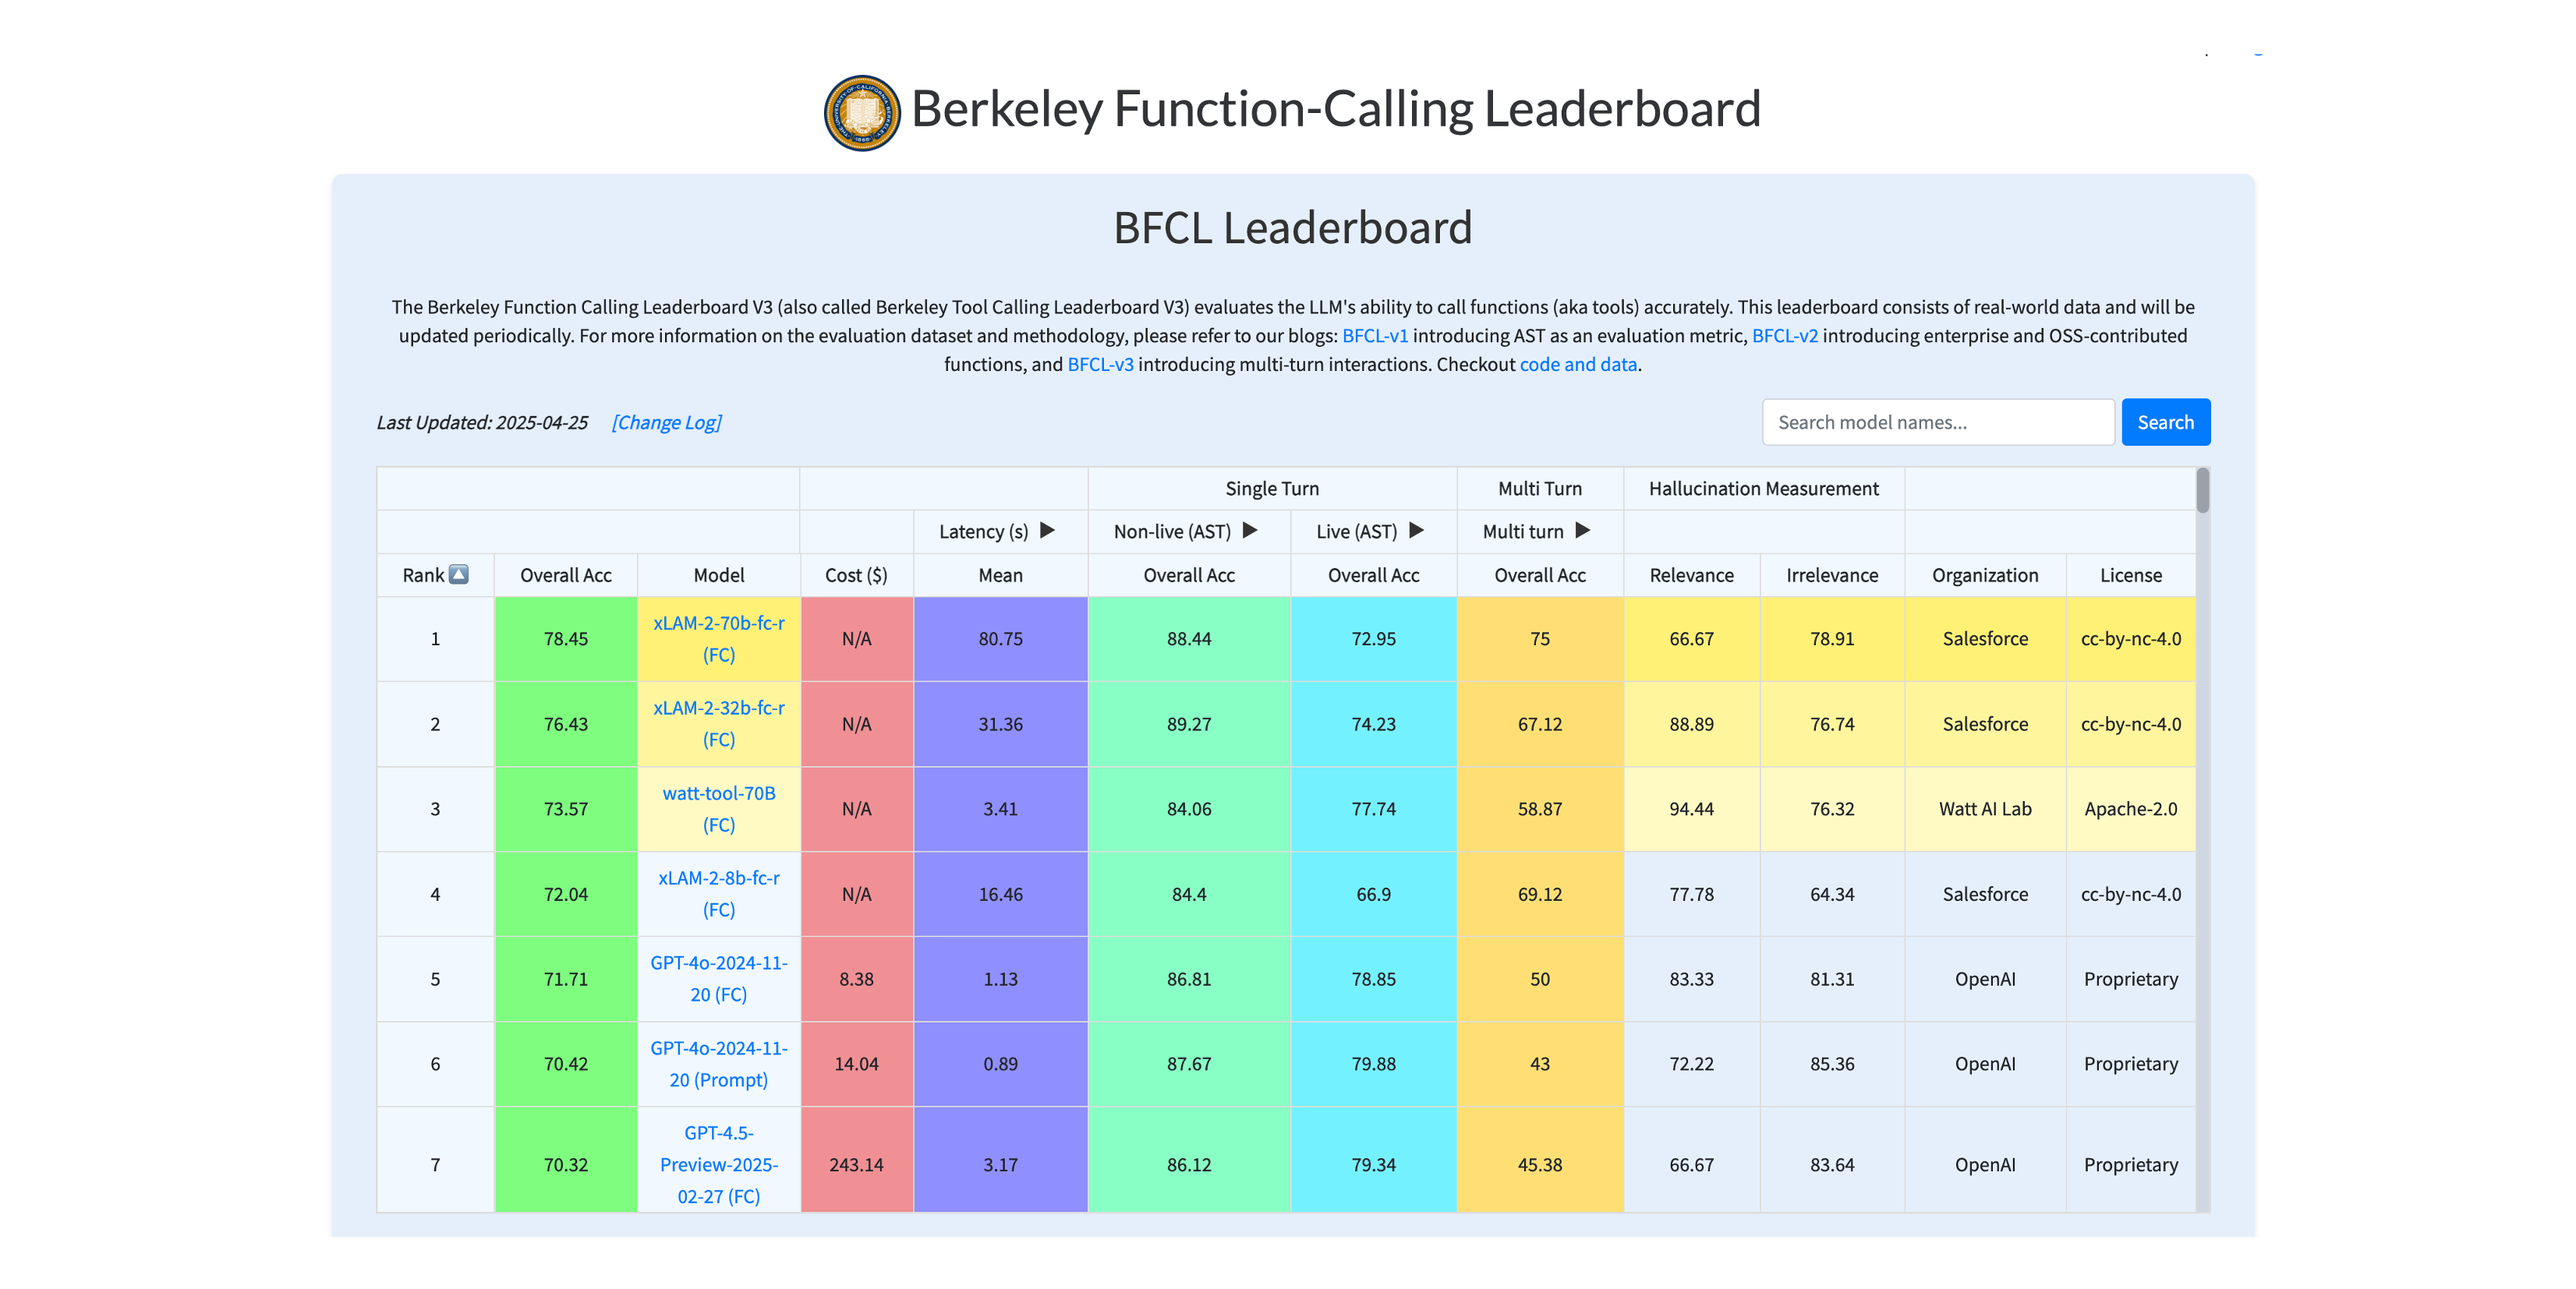
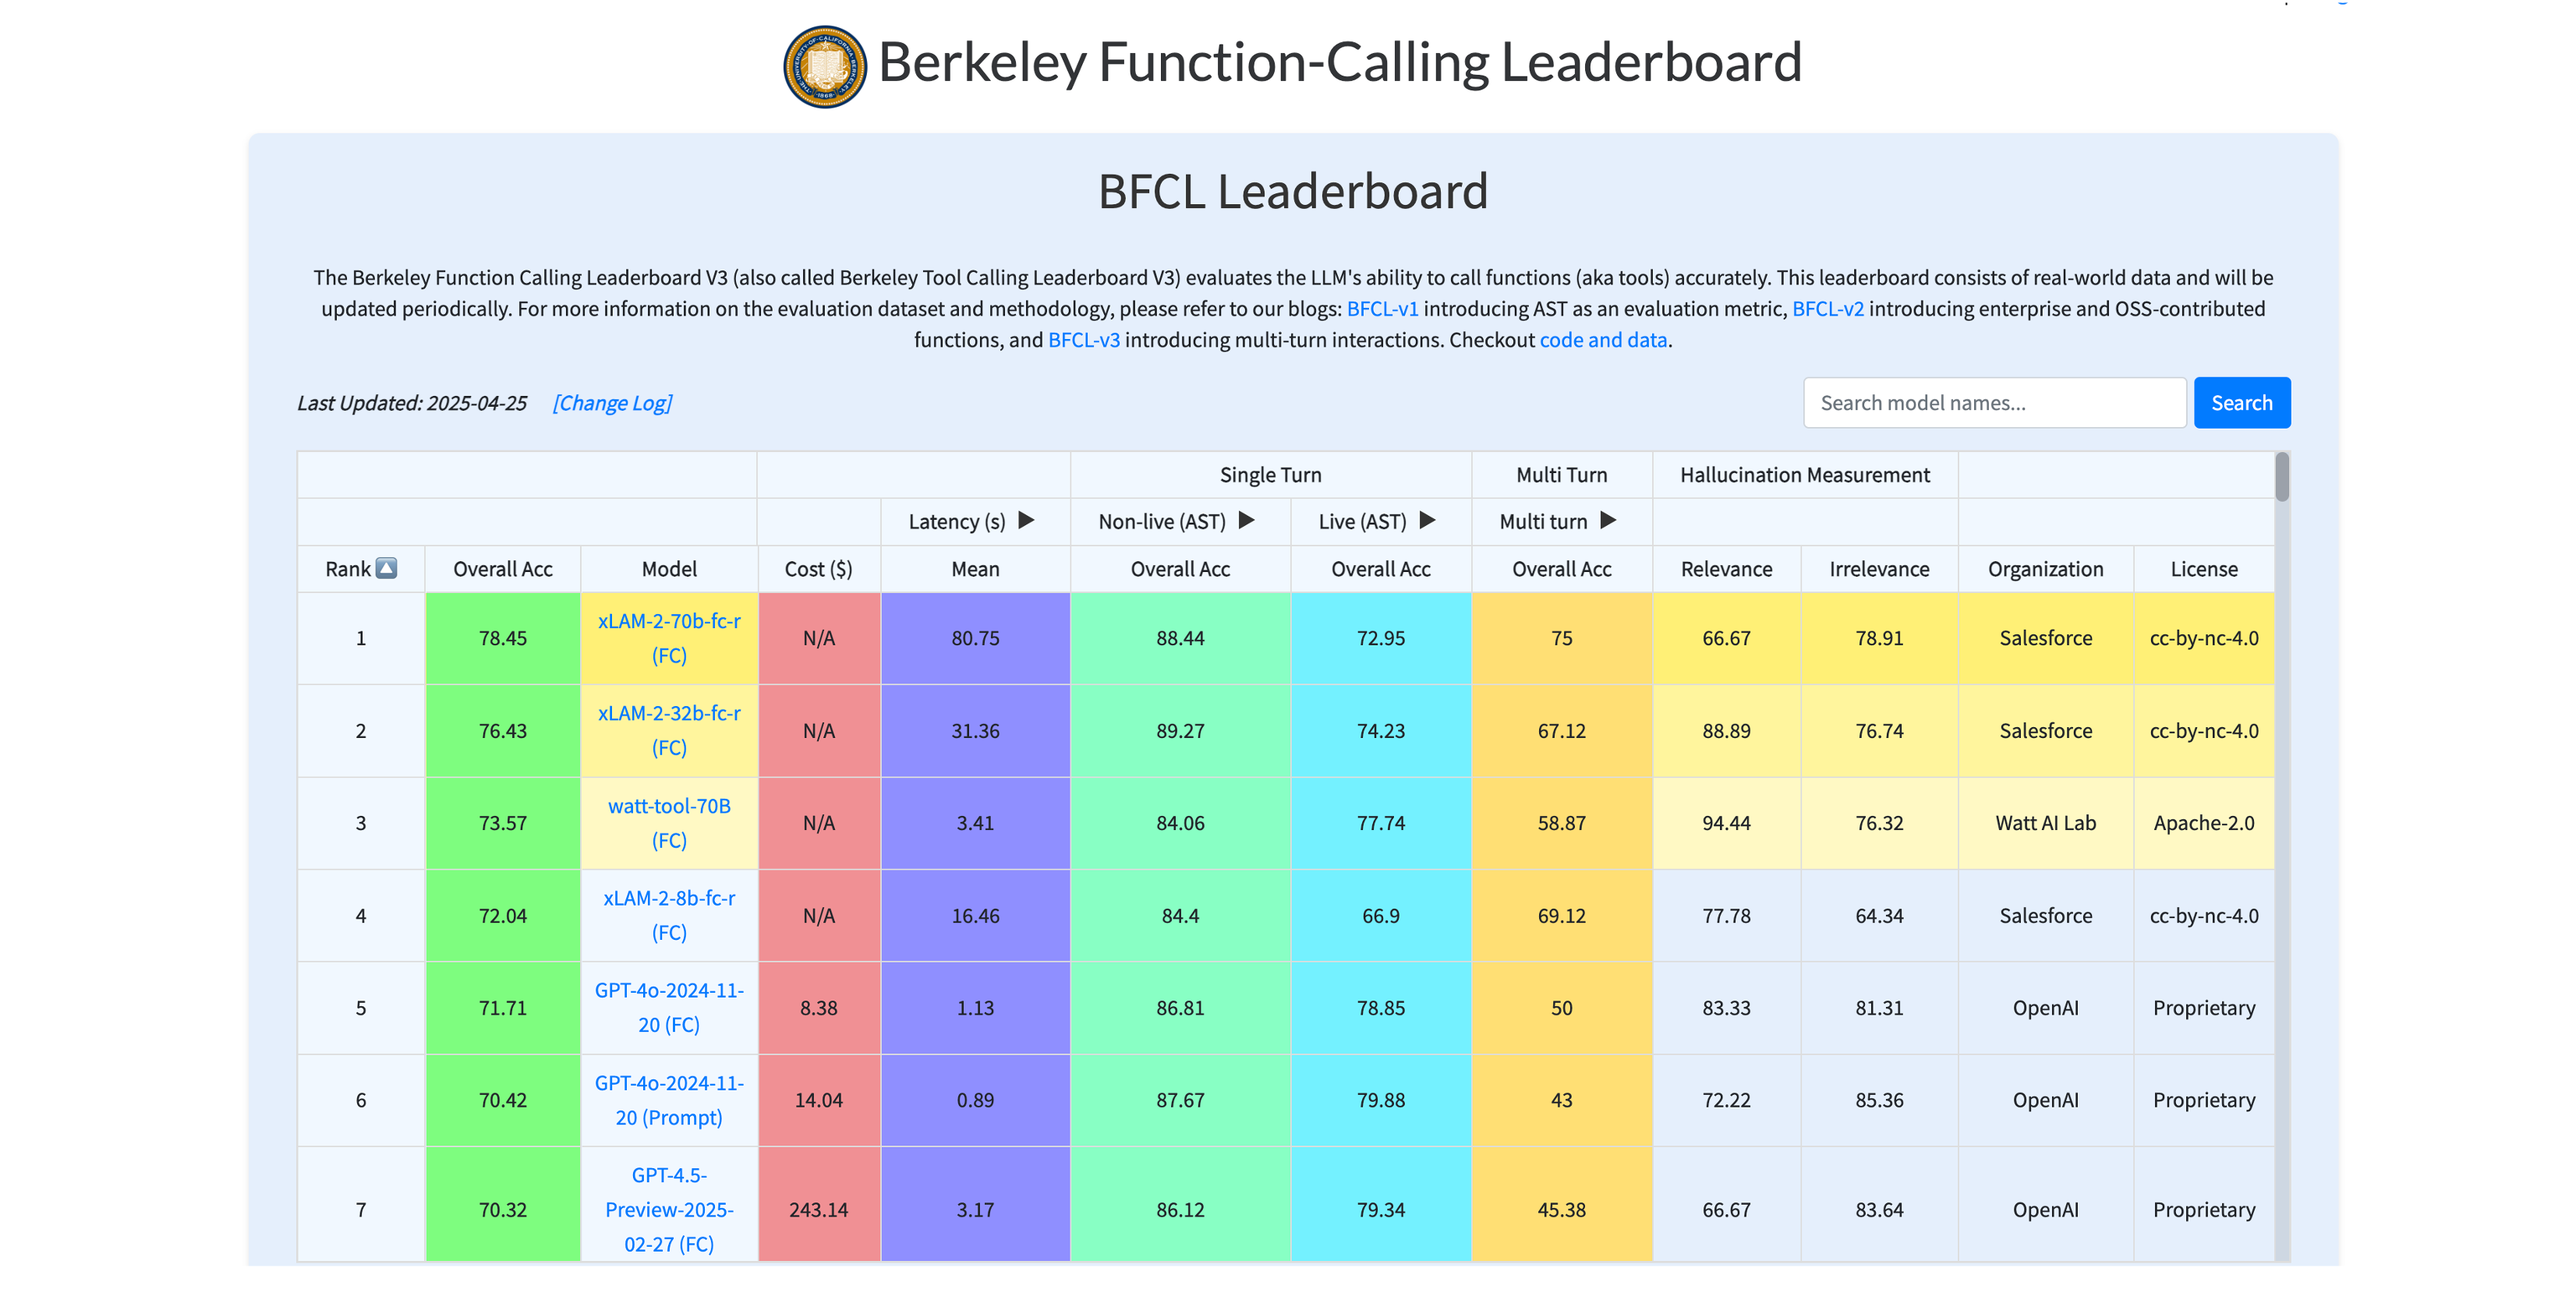
Update

diff --git a/_layouts/paper.html b/_layouts/paper.html
@@ -21,7 +21,7 @@ layout: default
 		{% endif %}
 
 		{% if page.corresponding-author %}
-			<div id="paper-equal-contribution"> *Corresponding author</div>
+			<div id="paper-equal-contribution"> †Corresponding author</div>
 		{% endif %}
 	</div>
 

diff --git a/_posts/papers/2025-04-04-apigenmt.md b/_posts/papers/2025-04-04-apigenmt.md
@@ -35,7 +35,7 @@ pdf: https://arxiv.org/pdf/2504.03601
 code: https://huggingface.co/collections/Salesforce/xlam-2-67ef5be12949d8dcdae354c4
 blog: https://apigen-mt.github.io/
 featured: true
-feature-order: 4
+feature-order: 1
 image: /images/featured/apigenv2.png
 feature-title: APIGen-MT
 feature-description: SOTA on BFCL leaderboard outperforming all proprietary LLMs
@@ -52,4 +52,4 @@ bibtex: |-
   }
 ---
 
-Large language model (LLM) agents have shown great potential in solving real-world software engineering (SWE) problems. The most advanced open-source SWE agent can resolve over 27% of real GitHub issues in SWE-Bench Lite. However, these sophisticated agent frameworks exhibit varying strengths, excelling in certain tasks while underperforming in others. To fully harness the diversity of these agents, we propose DEI (Diversity Empowered Intelligence), a framework that leverages their unique expertise. DEI functions as a meta-module atop existing SWE agent frameworks, managing agent collectives for enhanced problem-solving. Experimental results show that a DEI-guided committee of agents is able to surpass the best individual agent's performance by a large margin. For instance, a group of open-source SWE agents, with a maximum individual resolve rate of 27.3% on SWE-Bench Lite, can achieve a 34.3% resolve rate with DEI, making a 25% improvement and beating most closed-source solutions. Our best-performing group excels with a 55% resolve rate, securing the highest ranking on SWE-Bench Lite. Our findings contribute to the growing body of research on collaborative AI systems and their potential to solve complex software engineering challenges.
+Training effective AI agents for multi-turn interactions requires high-quality data that captures realistic human-agent dynamics, yet such data is scarce and expensive to collect manually. We introduce APIGen-MT, a two-phase framework that generates verifiable and diverse multi-turn agent data. In the first phase, our agentic pipeline produces detailed task blueprints with ground-truth actions, leveraging a committee of LLM reviewers and iterative feedback loops. These blueprints are then transformed into complete interaction trajectories through simulated human-agent interplay. We train a family of models -- the xLAM-2-fc-r series with sizes ranging from 1B to 70B parameters. Our models outperform frontier models such as GPT-4o and Claude 3.5 on τ-bench and BFCL benchmarks, with the smaller models surpassing their larger counterparts, particularly in multi-turn settings, while maintaining superior consistency across multiple trials. Comprehensive experiments demonstrate that our verified blueprint-to-details approach yields high-quality training data, enabling the development of more reliable, efficient, and capable agents. We open-source both the synthetic data collected and the trained xLAM-2-fc-r models to advance research in AI agents. Models are available on HuggingFace at this https URL and project website is this https URL

diff --git a/_posts/papers/2025-03-01-actionstudio.md b/_posts/papers/2025-03-01-actionstudio.md
@@ -21,7 +21,7 @@ authors:
   - Huan Wang
   - Silvio Savarese
   - Caiming Xiong
-  
+
 venue: arXiv
 venue-shorthand: arXiv
 year: 2025
@@ -43,7 +43,4 @@ bibtex: |-
 
 ---
 
-Personalization is critical in AI assistants, particularly in the context of private AI models that work with individual users. A key scenario in this domain involves enabling AI models to access and interpret a user's private data (e.g., conversation history, user-AI interactions, app usage) to understand personal details such as biographical information, preferences, and social connections. However, due to the sensitive nature of such data, there are no publicly available datasets that allow us to assess an AI model's ability to understand users through direct access to personal information.
-To address this gap, we introduce a synthetic data generation pipeline that creates diverse, realistic user profiles and private documents simulating human activities. Leveraging this synthetic data, we present PersonaBench, a benchmark designed to evaluate AI models' performance in understanding personal information derived from simulated private user data.
-
-We evaluate Retrieval-Augmented Generation (RAG) pipelines using questions directly related to a user's personal information, supported by the relevant private documents provided to the models. Our results reveal that current retrieval-augmented AI models struggle to answer private questions by extracting personal information from user documents, highlighting the need for improved methodologies to enhance personalization capabilities in AI.
+Action models are essential for enabling autonomous agents to perform complex tasks. However, training large action models remains challenging due to the diversity of agent environments and the complexity of agentic data. Despite growing interest, existing infrastructure provides limited support for scalable, agent-specific fine-tuning. We present ActionStudio, a lightweight and extensible data and training framework designed for large action models. ActionStudio unifies heterogeneous agent trajectories through a standardized format, supports diverse training paradigms including LoRA, full fine-tuning, and distributed setups, and integrates robust preprocessing and verification tools. We validate its effectiveness across both public and realistic industry benchmarks, demonstrating strong performance and practical scalability. We open-sourced code and data at this https URL to facilitate research in the community.
